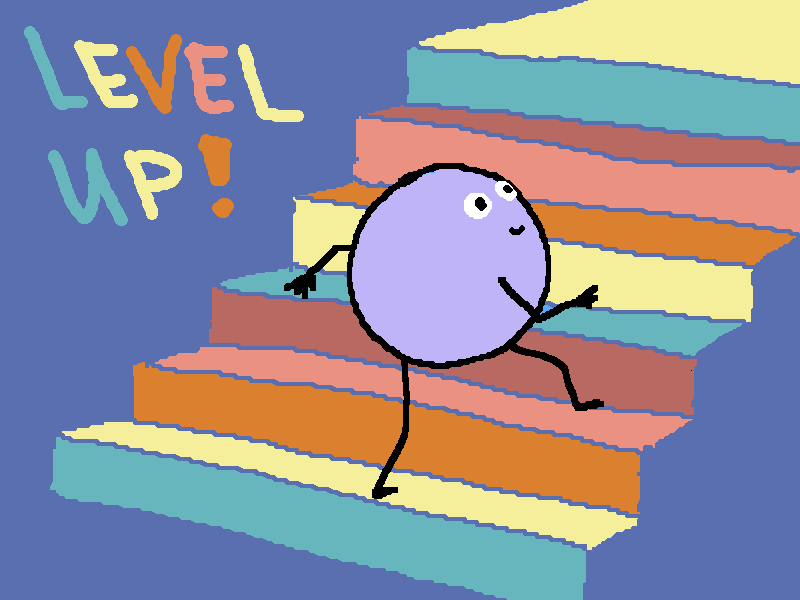
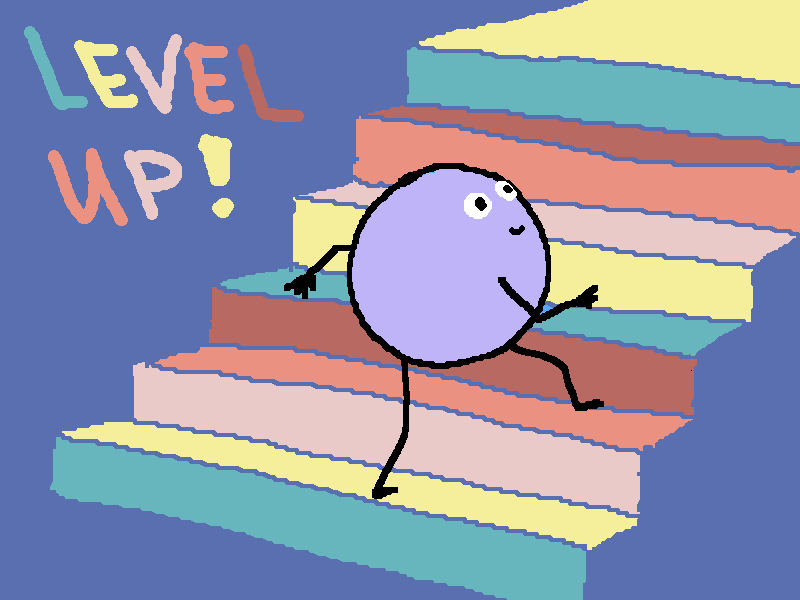
changed color orange and replaced images. added new level

diff --git a/game.py b/game.py
@@ -220,14 +220,14 @@ class Game:
         
     def get_color(self):
         # Get the pool with increasing amount of colors for each level.
+        # if self.current_level == 1:
+        #     colors = ["blue", "red", "blue"]
         if self.current_level == 1:
-            colors = ["blue", "red", "blue"]
-        elif self.current_level == 2:
             colors = ["blue", "orange", "red", "blue", "red"]
-        elif self.current_level == 3:
+        elif self.current_level == 2:
             colors = ["blue", "red", "orange", "blue", "orange", "red", 
                       "violet"]
-        elif self.current_level >= 4:
+        elif self.current_level >= 3:
             colors = ["blue", "red", "yellow", "orange", "violet", "orange",
                       "blue"]
 
@@ -363,16 +363,16 @@ class Game:
                     
     def load_next_level(self, level):
         # Positions for the blocks for each level.
-        if level == 1:
-            self.level_pos = [
-                            (250, 50), (490, 50), (310, 90), (430, 90),
-                            (310, 130), (370, 130), (430, 130), (250, 170),
-                            (370, 170), (490, 170), (310, 210), (430, 210),
-                            (250, 250), (370, 250), (490, 250),
-                            (190, 290), (550, 290)
-                            ]
+        # if level == 1:
+        #     self.level_pos = [
+        #                     (250, 50), (490, 50), (310, 90), (430, 90),
+        #                     (310, 130), (370, 130), (430, 130), (250, 170),
+        #                     (370, 170), (490, 170), (310, 210), (430, 210),
+        #                     (250, 250), (370, 250), (490, 250),
+        #                     (190, 290), (550, 290)
+        #                     ]
             
-        if level == 2:
+        if level == 1:
             self.level_pos = [
                             (190, 50), (370, 50), (550, 50),
                             (250, 90), (370, 90), (490, 90),
@@ -385,7 +385,7 @@ class Game:
                             (550, 330), (610, 330)
                             ]
             
-        if level == 3:
+        if level == 2:
             self.level_pos = [
                             (70, 50), (370, 50), (670, 50), (130, 90),
                             (190, 90), (370, 90), (550, 90), (610, 90),
@@ -399,7 +399,7 @@ class Game:
                             (610, 330), (670, 330)
                             ]
             
-        if level == 4:
+        if level == 3:
             self.level_pos = [
                             (250, 50), (370, 50), (490, 50), (70, 90),
                             (190, 90), (250, 90), (310, 90), (370, 90),
@@ -414,6 +414,24 @@ class Game:
                             (490, 290), (670, 290), (70, 330), (190, 330),
                             (310, 330), (370, 330), (430, 330), (550, 330),
                             (670, 330)
+                            ] 
+        
+        if level == 4:
+            self.level_pos = [
+                            (130, 50), (190, 50), (310, 50), (370, 50),
+                            (430, 50), (550, 50), (610, 50), 
+                            (70, 90), (250, 90), (490, 90), (670, 90),                           
+                            (70, 130), (250, 130), (490, 130), (670, 130),
+                            (130, 170), (190, 170), (310, 170), (370, 170),
+                            (430, 170), (550, 170), (610, 170),
+                            (70, 210), (190, 210), (370, 210), (550, 210), 
+                            (670, 210), 
+                            (70, 250), (250, 250), (310, 250), (430, 250),
+                            (490, 250), (670, 250), 
+                            (70, 290), (130, 290), (190, 290), (250, 290),
+                            (490, 290), (550, 290), (610, 290), (670, 290),
+                            (130, 330), (250, 330), (310, 330), (370, 330),
+                            (430, 330), (490, 330), (610, 330)
                             ] 
             
         if level == 5:

diff --git a/ball.py b/ball.py
@@ -20,10 +20,10 @@ class Ball:
         self.y = float(self.y)
         self.color = (200, 250, 200)
         self.image = pygame.image.load("images/ball.png")
-        self.rect = pygame.Rect(self.x, self.y, 19.999, 19.999)
+        self.rect = pygame.Rect(self.x, self.y, 20, 20)
         self.start_pos()
         self.ball_speed = self.settings.ball_speed
-        self.speed_y = self.ball_speed + 0.07
+        self.speed_y = self.ball_speed + 0.032
         values = [self.ball_speed, -self.ball_speed]
         self.speed_x = choice(values)
         self.dmg = 1

diff --git a/block.py b/block.py
@@ -31,7 +31,7 @@ class Block:
         elif col == "red":
             return (234, 145, 130)
         elif col == "orange":
-            return (219, 128, 46)
+            return (234, 201, 201)
         elif col == "violet":
             return (184, 105, 98)
         elif col == "yellow":
@@ -74,7 +74,7 @@ class Block:
         elif hp == 2:
             return (234, 145, 130)
         elif hp == 3:
-            return (219, 128, 46)
+            return (234, 201, 201)
         elif hp == 4:
             return (184, 105, 98)
         elif hp == 5:

diff --git a/button.py b/button.py
@@ -10,7 +10,6 @@ class Button:
         self.screen_rect = self.screen.get_rect()
         self.width = 160
         self.height = 80
-        # self.button_color = (184, 105, 98)
 
         # Set the dimensions, color and font of the button.
         if msg == "Play!":
